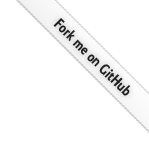
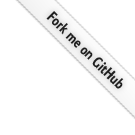
Tweaked fork me image and enforced min-width

diff --git a/public/css/structure.css b/public/css/structure.css
@@ -1,4 +1,14 @@
 /* ---------------------------------------- */
+/* -----| GENERAL |------------------------ */
+/* ---------------------------------------- */
+
+#wrap {
+	min-width: 960px;
+	position: relative;
+}
+
+
+/* ---------------------------------------- */
 /* -----| FOOTER |------------------------- */
 /* ---------------------------------------- */
 
@@ -13,6 +23,7 @@ body > #wrap {height: auto; min-height: 100%;}
 #footer {
 	position: relative;
 	margin-top: -38px;			/* negative value of footer height */
+	min-width: 960px;
 	height: 38px;
 	clear:both;
 }

diff --git a/public/css/style.css b/public/css/style.css
@@ -118,9 +118,9 @@ a:hover {
 }
 
 #fork-me {
-	right: -10px;
+	right: 0;
 	position: absolute;
-	top: -10px;
+	top: 0;
 }
 	
 	
